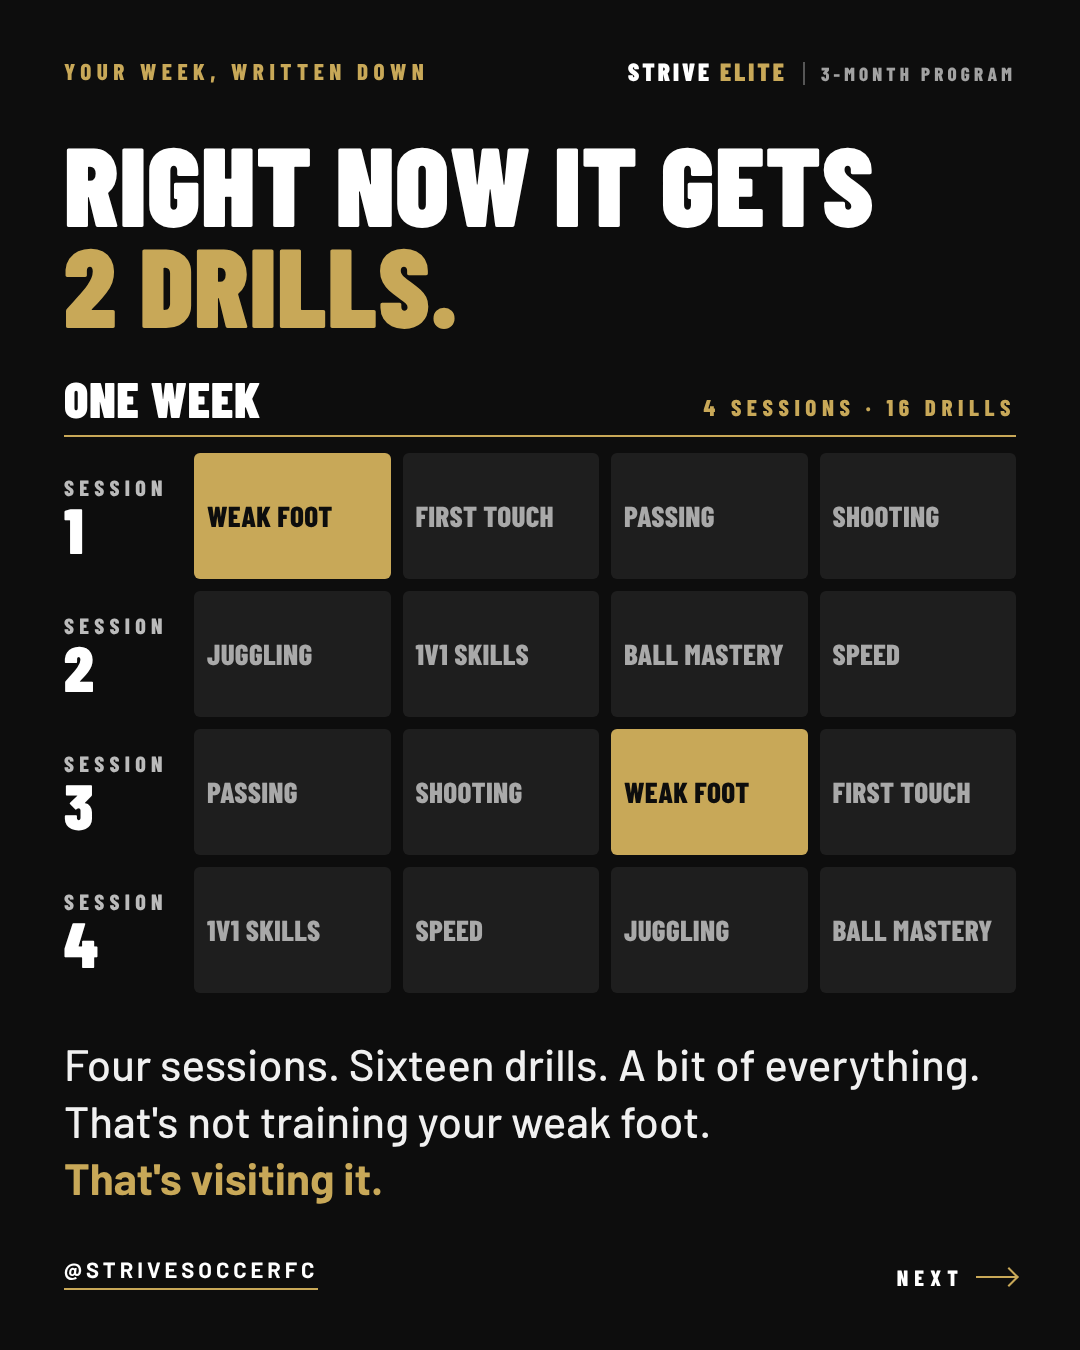
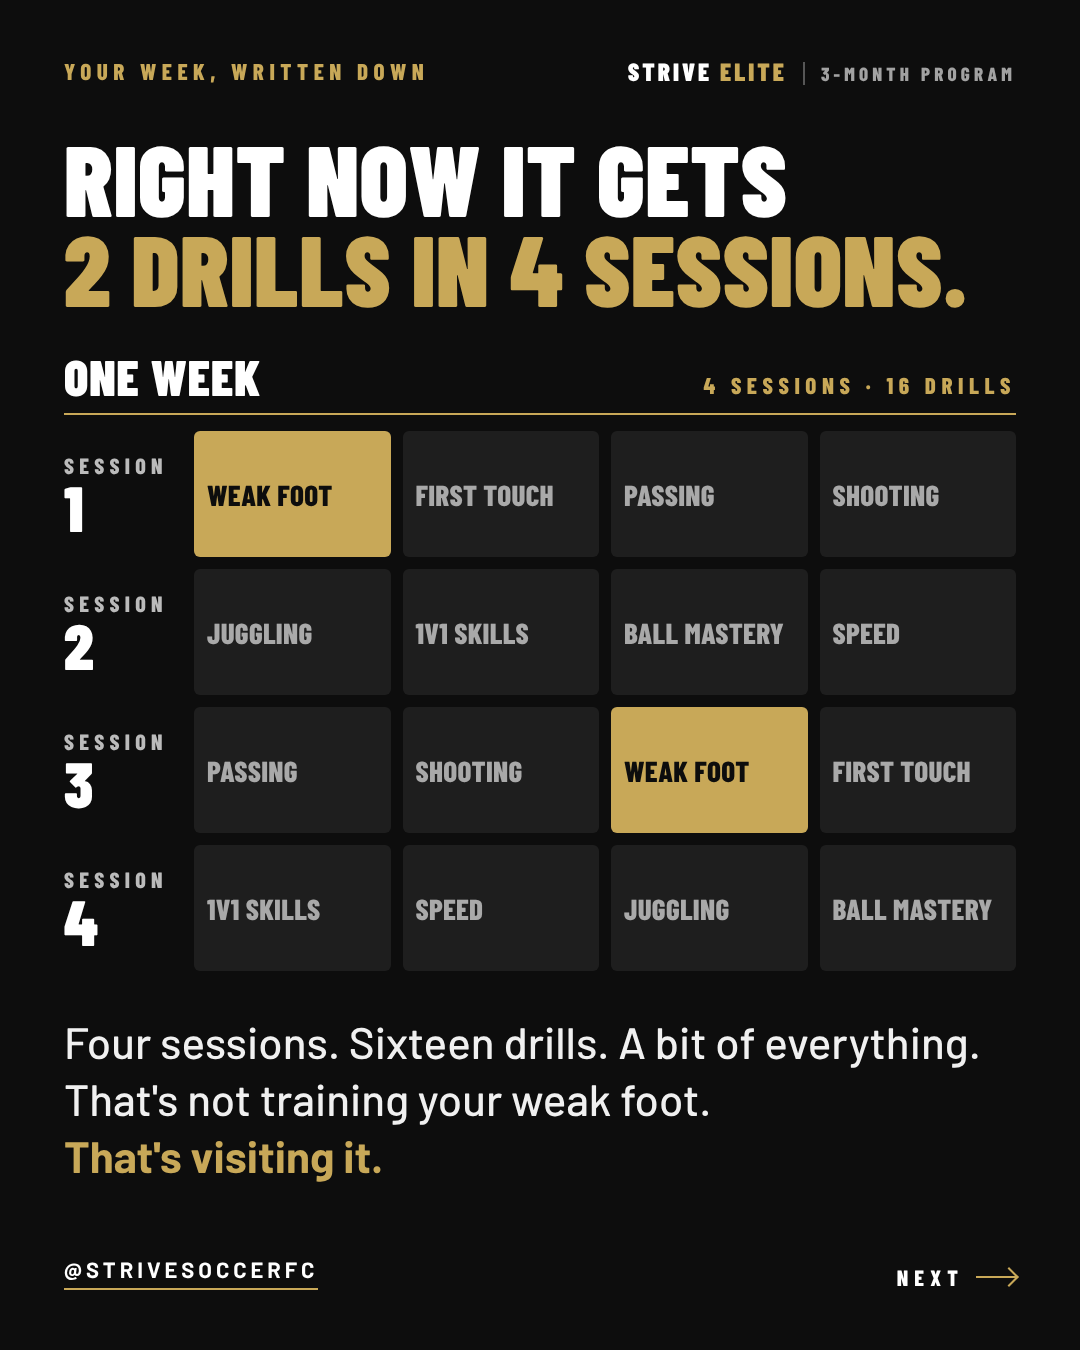
Opinion carousel: force him to his left; 2 drills in 4 sessions
Claude-Session: https://claude.ai/code/session_011JsCTTjCbUkHbTuWTKQSXJ

diff --git a/marketing/program/one-thing-carousel-3/04-two.html b/marketing/program/one-thing-carousel-3/04-two.html
@@ -1,7 +1,7 @@
 <!doctype html><meta charset="utf-8"><link rel="stylesheet" href="../../covers/strive-elite-meeting/fonts.css"><link rel="stylesheet" href="style.css"><title>Right now it gets 2</title>
-<style>h1{font-size:112px}h1 span{white-space:nowrap}.sched{margin-top:42px}.tt{gap:12px}.tr{grid-template-columns:118px repeat(4,1fr);gap:12px}.bk{height:126px;font-size:29px;letter-spacing:.01em;padding:0 13px}.bk.w{padding:0 11px}.p{margin-top:42px;font-size:44px}</style>
+<style>h1{font-size:100px}h1 span{white-space:nowrap}.sched{margin-top:42px}.tt{gap:12px}.tr{grid-template-columns:118px repeat(4,1fr);gap:12px}.bk{height:126px;font-size:29px;letter-spacing:.01em;padding:0 13px}.bk.w{padding:0 11px}.p{margin-top:42px;font-size:44px}</style>
 <div class="top"><div class="step">Your week, written down</div><div class="wm">Strive <span>Elite</span><em>3-month program</em></div></div>
-<div class="pad"><h1>Right now it gets<br><span>2 drills.</span></h1>
+<div class="pad"><h1>Right now it gets<br><span>2 drills in 4 sessions.</span></h1>
 <div class="sched"><div class="hd"><b>One week</b><span>4 sessions &middot; 16 drills</span></div><div class="tt">
 <div class="tr"><div class="lb">Session<b>1</b></div><div class="bk g">Weak foot</div><div class="bk">First touch</div><div class="bk">Passing</div><div class="bk">Shooting</div></div>
 <div class="tr"><div class="lb">Session<b>2</b></div><div class="bk">Juggling</div><div class="bk">1v1 skills</div><div class="bk">Ball mastery</div><div class="bk">Speed</div></div>

diff --git a/marketing/program/one-thing-carousel-3/03-weak-foot.html b/marketing/program/one-thing-carousel-3/03-weak-foot.html
@@ -9,7 +9,7 @@ h1{margin-top:30px;font-size:178px;line-height:.86}
 <div class="top"><div class="step">Here's why</div><div class="wm">Strive <span>Elite</span><em>3-month program</em></div></div>
 <div class="pad"><p class="pre">Every player has one thing holding them back.</p>
 <h1>Say it's your <span>weak foot.</span></h1>
-<p class="l">Defenders work it out in ten minutes. Then they show you onto it all game.</p>
+<p class="l">Defenders get told one thing: &ldquo;Force him to his left.&rdquo; Then they do it all game.</p>
 <p class="m">Team training is for the team. This one's on you.</p>
 <div class="k">So how much work does it get?</div></div>
 <div class="handle">@strivesoccerfc</div><div class="swipe">Next <i></i></div>

diff --git a/CLAUDE.md b/CLAUDE.md
@@ -4032,6 +4032,7 @@ commit.
       THEN (Coach Yinka: "Do 2 strength finishers, and highllivjt plyos bc plyos is speed and strength"): slide 10's phone now lights the plyo warm-up, the speed drill and TWO strength finishers (Strength: V-ups, 3 x 10, rest 30 sec; Strength: Single leg bridge, 3 x 8 each side; bank titles and reps), seven cards; copy "They don't wait their turn. Plyos open every session. That's speed and strength before you touch a ball. Speed work comes next. Two strength drills finish it." FLAGS: (1) THE APP PLACES ONE FINISHER A SESSION (bank-conform.ts, the Oct 7 rule: at most one, always last), so a member opens a session with one, not two; making it two when strength is required is a builder change for every player's future weeks, not done, his word needed. (2) Single leg bridge has no picture: every strength clip but his V-ups cover is on files.manuscdn.com, still blocked from here (403 on a fresh try); a clip or screenshot from him fills it. Sent, not posted.
       THEN (Coach Yinka: "We have so many fucjing strength videos for y to pick"): he is right, 13 are in the bank; the block was mine: every one is on files.manuscdn.com and this session's network refuses that host. FIXED FOR GOOD: a personal cloud environment "strive-soccer-system" now exists (approved by him), limited network plus files.manuscdn.com, saved for this repository; a running session cannot move onto it, so a second session on it pulled three frames from each of the 13 strength clips (all downloaded, H.264 SDR 1080x1920) to branch claude/strength-thumbs. One 540x960 still per clip is now in marketing/program/drill-frames/strength/ for any future graphic. SLIDE 10: the second finisher is "Strength: Front plank", 3 x 30 sec (bank title and reps), with its picture; V-ups keeps the cover he sent. A sheet of all 13 stills was sent so he can pick either finisher himself. NEXT SESSIONS: start them on the "strive-soccer-system" environment and the Manus clips are reachable, which also unblocks the OPEN item to move the Manus-hosted drill videos to our own storage. The one-finisher-a-session flag stands. Sent, not posted.
       THEN (Coach Yinka: "Send final"): THE FINAL TWELVE RE-SENT, re-rendered from source in posting order, slide 10 with the plyo warm-up, the speed drill and both finishers (V-ups, Front plank) lit and pictured; caption unchanged in the README. NOT POSTED. Still his: "30 day" versus the 3-month program on the slides; "Eyes closed" under pop and juggle; the app places one finisher a session where slide 10 shows two; Carla's ELITE reply should expect "your one thing".
+      THEN (Coach Yinka: "For the 3rd instead of defenders work it out say 'force him to his left' and the 4th say 2 drills in 4 sessions"): slide 3 reads "Defenders get told one thing: 'Force him to his left.' Then they do it all game." (his phrase, my sentence around it; "defenders work it out in ten minutes" is gone); slide 4's headline is "RIGHT NOW IT GETS 2 DRILLS IN 4 SESSIONS." Both re-rendered and sent; the other ten unchanged. Not posted.
 
 ## Skills (use them without being asked)
 

diff --git a/marketing/program/one-thing-carousel-3/README.md b/marketing/program/one-thing-carousel-3/README.md
@@ -46,10 +46,10 @@ the strength finisher or the speed drill.
    passes off the wall. A couple of shots. / You sweat. You go home
    feeling good. / THREE MONTHS LATER YOU'RE THE SAME PLAYER.
 3. Every player has one thing holding them back. / SAY IT'S YOUR WEAK
-   FOOT. / Defenders work it out in ten minutes. Then they show you onto
-   it all game. / Team training is for the team. This one's on you. / SO
+   FOOT. / Defenders get told one thing: "Force him to his left." Then
+   they do it all game. / Team training is for the team. This one's on you. / SO
    HOW MUCH WORK DOES IT GET?
-4. RIGHT NOW IT GETS 2 DRILLS. / Four sessions of four blocks, two gold. /
+4. RIGHT NOW IT GETS 2 DRILLS IN 4 SESSIONS. / Four sessions of four blocks, two gold. /
    Four sessions. Sixteen drills. A bit of everything. That's not
    training your weak foot. That's visiting it.
 5. SAME 4 SESSIONS. NOW IT GETS 8. / Each session: weak foot, weak foot,
@@ -114,8 +114,8 @@ DM ELITE and tell us your one thing.
 
 - It speaks to the player ("you"). A parent version swaps in "your
   player" throughout; say the word.
-- "Defenders work it out in ten minutes" on slide 3 is my line, a
-  picture not a statistic; change it if it is not how he would say it.
+- Slide 3's line is his: "Force him to his left" (the sentence around it,
+  "Defenders get told one thing ... Then they do it all game", is mine).
 - Slide 7 is his story; he checks every word.
 - Film Room and the 1:1 call are one line on the close now. The full
   slide for them is in draft 2 (11-film) if he wants it back.
